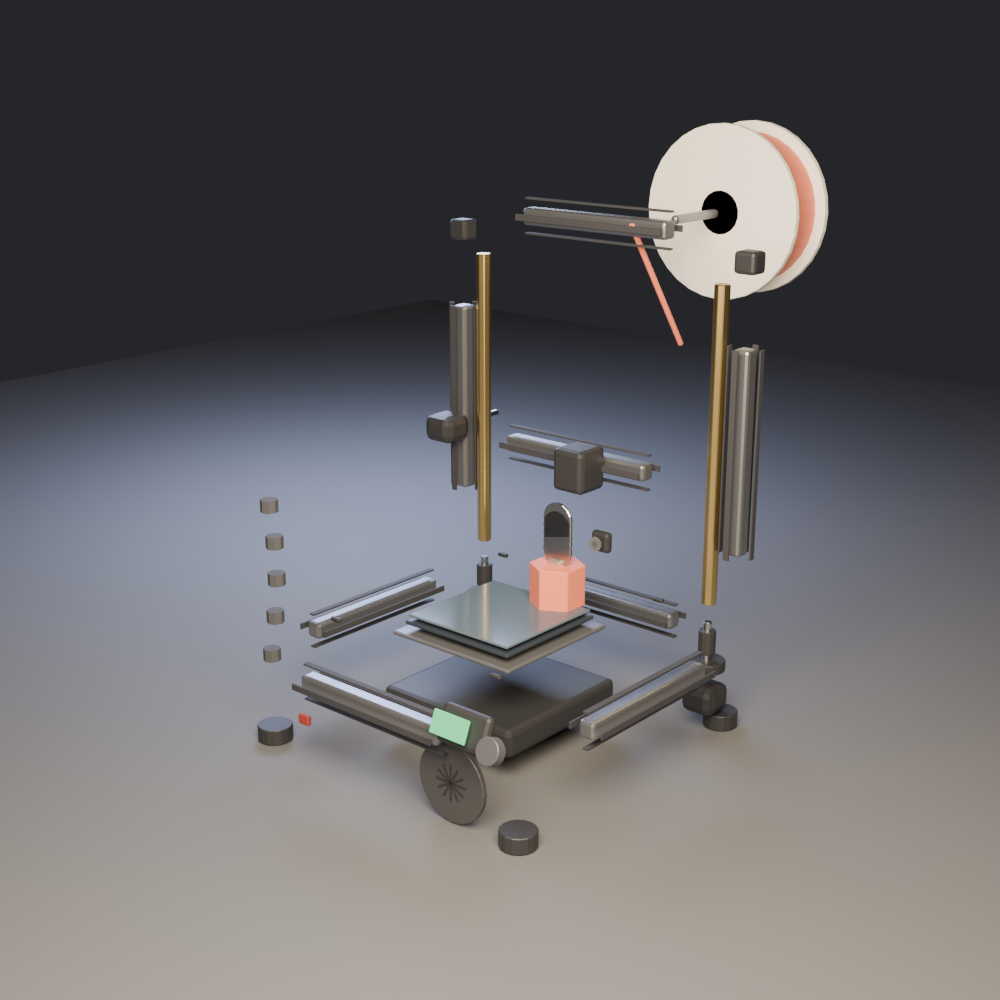
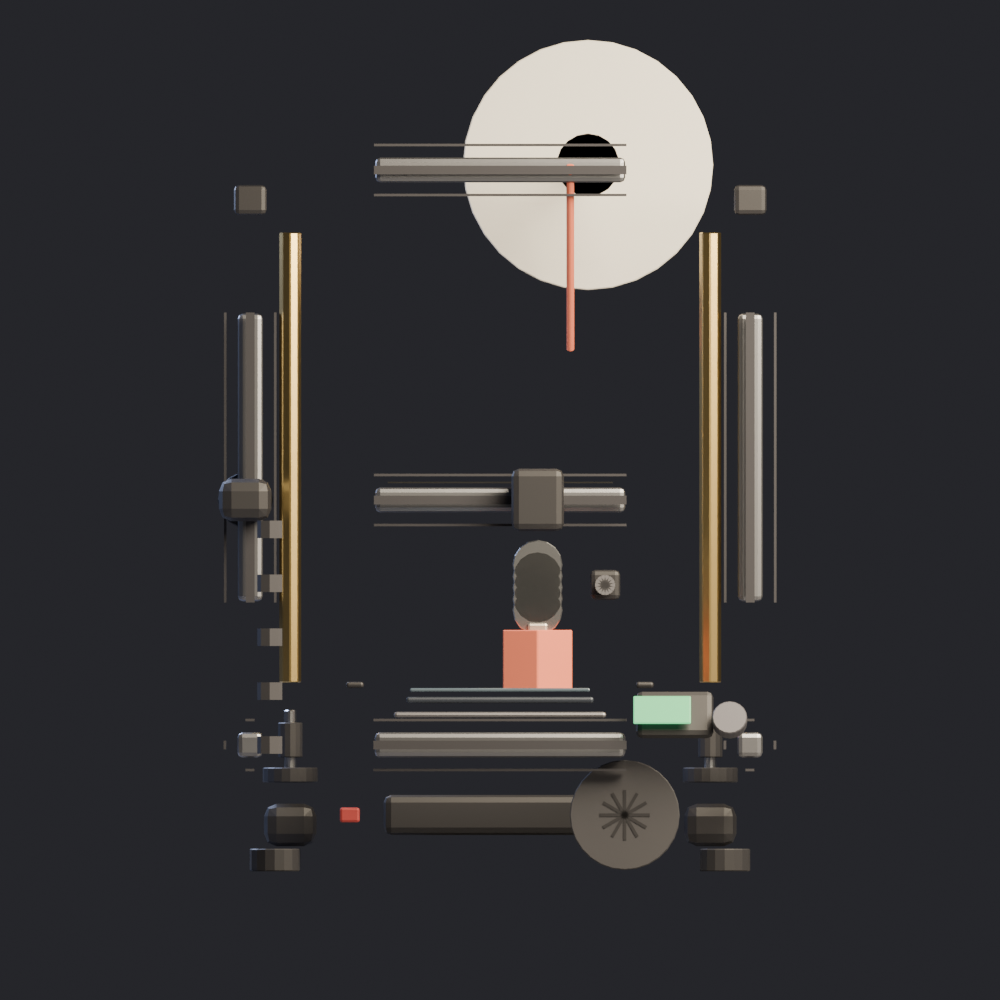
#2: add the Blender-modeled 3D printer to the bench
Fix the X-gantry beam to overlap the posts, export printer.glb from Blender,
and load it in R3F (BlenderPrinter) on the bench beside the arm. At bench scale
under the amber light it reads as a real detailed printer (extrusion frame,
filament spool, hotend, LCD) rather than the rejected low-poly frame.

diff --git a/src/landing/BlenderPrinter.tsx b/src/landing/BlenderPrinter.tsx
@@ -1,0 +1,22 @@
+import { useMemo } from 'react'
+import { useGLTF } from '@react-three/drei'
+import * as THREE from 'three'
+
+/** The Blender-modeled 3D printer (public/models/printer.glb), placed on the bench. */
+export default function BlenderPrinter(props: { position?: [number, number, number]; rotation?: [number, number, number]; scale?: number }) {
+  const { scene } = useGLTF('/models/printer.glb')
+  const model = useMemo(() => {
+    const c = scene.clone(true)
+    c.traverse((o) => {
+      const m = o as THREE.Mesh
+      if (m.isMesh) {
+        m.castShadow = true
+        m.receiveShadow = true
+      }
+    })
+    return c
+  }, [scene])
+  return <primitive object={model} {...props} />
+}
+
+useGLTF.preload('/models/printer.glb')

diff --git a/src/landing/Stage.tsx b/src/landing/Stage.tsx
@@ -7,6 +7,7 @@ import So101Arm from '../components/arm/So101Arm'
 import Window from './Window'
 import Outdoors from './Outdoors'
 import Workstation from './Workstation'
+import BlenderPrinter from './BlenderPrinter'
 import { concreteTexture, plywoodTexture, pegboardTexture, workbenchTexture, ceilingTexture } from './textures'
 
 /**
@@ -469,6 +470,8 @@ export default function Stage() {
         <group position={[0, DESK_Y, 0]}>
           <Workstation />
         </group>
+        {/* the Blender-modeled 3D printer, on the bench right */}
+        <BlenderPrinter position={[2.7, DESK_Y + 0.32, -0.35]} rotation={[0, -0.5, 0]} scale={0.42} />
         <So101Arm />
       </group>
 

diff --git a/assets-src/blender/printer.py b/assets-src/blender/printer.py
@@ -150,7 +150,7 @@ def build():
     extrusion(2 * H, (0, yb, ztop), 'X', ALU)  # top bar
 
     # ---- X gantry (spans posts) + carriage + hotend + belt ----
-    extrusion(2 * H, (0, yb - 0.14, gz), 'X', ALU)                 # gantry beam
+    extrusion(2 * H + 0.22, (0, yb - 0.14, gz), 'X', ALU)         # gantry beam (overlaps the posts)
     box((2 * H - 0.2, 0.02, 0.012), (0, yb - 0.06, gz + 0.07), mat('belt', (0.02, 0.02, 0.02), 0.1, 0.9), bevel=0)
     nema17((-H - 0.02, yb - 0.14, gz), BLK, 'Y')                   # X stepper on the left
     cx = 0.15
@@ -221,11 +221,17 @@ def setup_scene():
     bpy.ops.object.light_add(type='AREA', location=(-3.5, 2.5, 3))
     r = bpy.context.active_object; r.data.energy = 500; r.data.size = 3; r.data.color = (0.55, 0.66, 1.0)
 
-    bpy.ops.object.empty_add(location=(0, 0, 1.1))
+    bpy.ops.object.empty_add(location=(0, 0, 1.2))
     tgt = bpy.context.active_object
-    bpy.ops.object.camera_add(location=(5.2, -6.0, 3.6))
+    front = '--front' in (sys.argv[sys.argv.index('--') + 1:] if '--' in sys.argv else [])
+    loc = (0.01, -8.0, 1.2) if front else (5.2, -6.0, 3.6)
+    bpy.ops.object.camera_add(location=loc)
     cam = bpy.context.active_object
-    cam.data.lens = 55
+    if front:
+        cam.data.type = 'ORTHO'
+        cam.data.ortho_scale = 4.0
+    else:
+        cam.data.lens = 55
     con = cam.constraints.new('TRACK_TO')
     con.target = tgt
     con.track_axis = 'TRACK_NEGATIVE_Z'